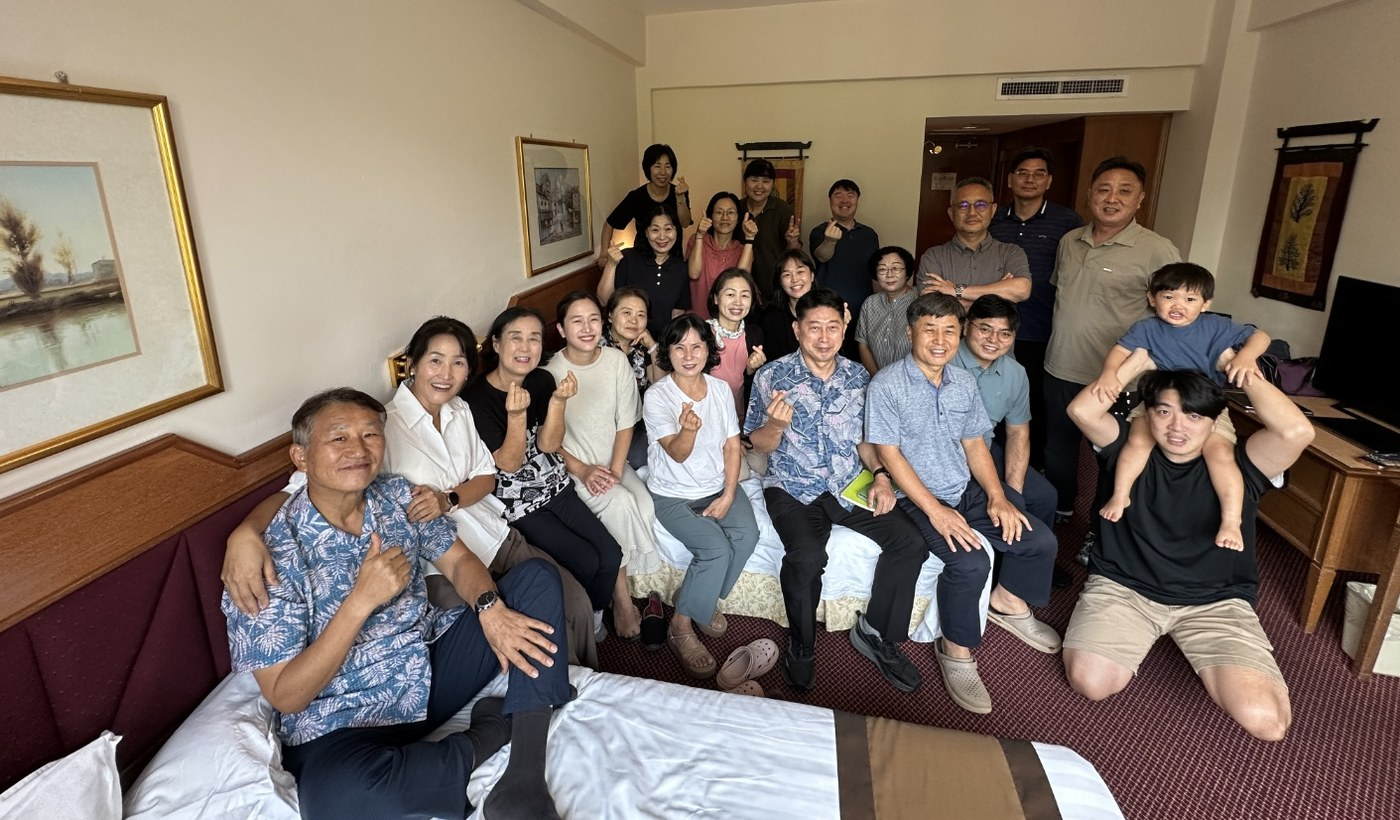
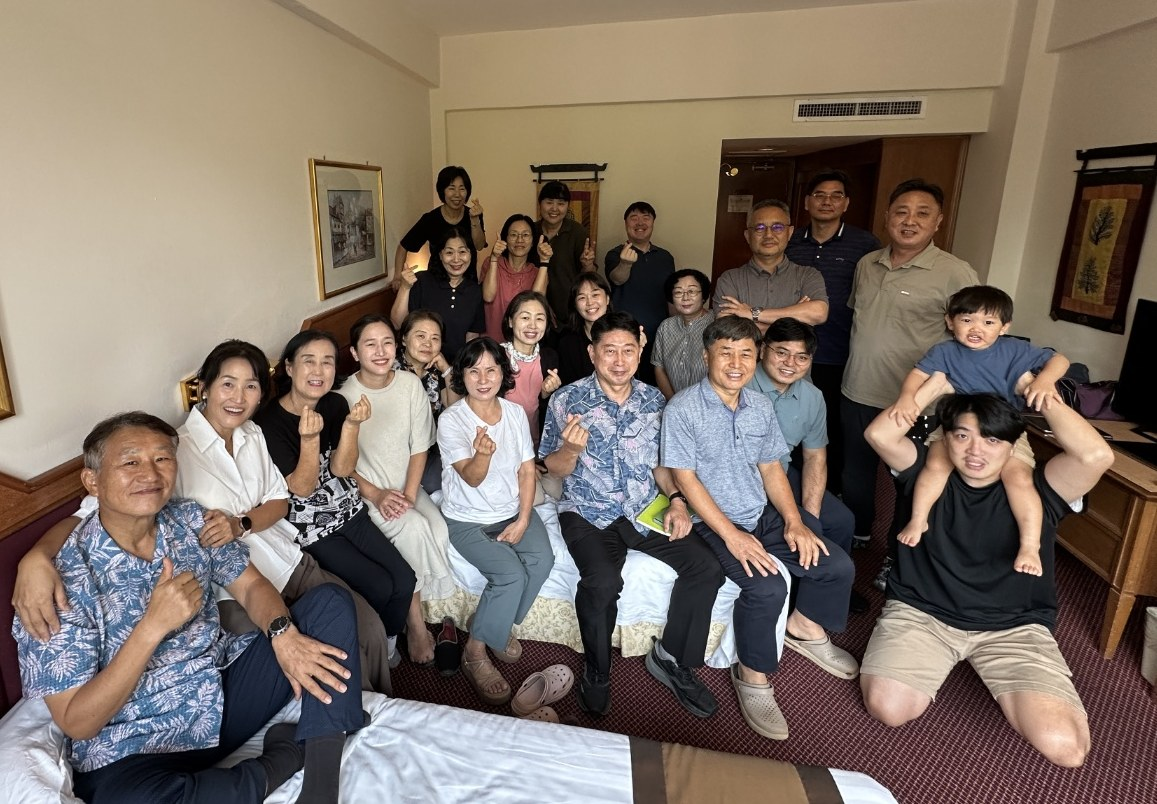
Crop left side of Happy Cam photo so Phillip on the right is clearly visible

diff --git a/index.html b/index.html
@@ -630,7 +630,7 @@
             <figcaption class="photo-caption">바탐방 지역 선교사 AI 활용 특강</figcaption>
           </figure>
           <figure class="photo-figure">
-            <img src="photos/02_happycam_gathering.jpg?v=3" alt="프놈펜 GMS 해피캄 지부 모임" loading="lazy" />
+            <img src="photos/02_happycam_gathering.jpg?v=4" alt="프놈펜 GMS 해피캄 지부 모임" style="object-position: right center;" loading="lazy" />
             <figcaption class="photo-caption">프놈펜 GMS 해피캄 지부 모임</figcaption>
           </figure>
         </div>
@@ -864,7 +864,7 @@
             <figcaption class="photo-caption">AI for Ministry Workshop in Battambang</figcaption>
           </figure>
           <figure class="photo-figure">
-            <img src="photos/02_happycam_gathering.jpg?v=3" alt="GMS Happy Cam Regional Gathering" loading="lazy" />
+            <img src="photos/02_happycam_gathering.jpg?v=4" alt="GMS Happy Cam Regional Gathering" style="object-position: right center;" loading="lazy" />
             <figcaption class="photo-caption">GMS Happy Cam Regional Gathering in Phnom Penh</figcaption>
           </figure>
         </div>
